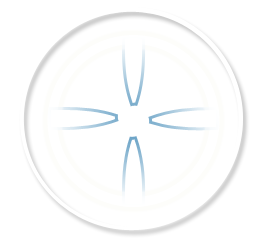
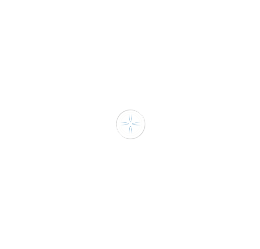
poprawiony raycasting w teleporcie / mniejszy celownik
teraz teleportuje dokładnie tam gdzie wskazuje się myszką, UWAGA tam
gdzie jest myszka != niekoniecznie tam gdzie jest celownik, co widać
zwłaszcza w edytorze unity, nadal jest to dosłowne teleportowanie ale
działa ok, tylko czasem nie widać gdzie się teleportujemy bo broń
zasłania ;)

diff --git a/Project/Assets/Player/Scripts/FPSControlsRigid.cs b/Project/Assets/Player/Scripts/FPSControlsRigid.cs
@@ -326,8 +326,14 @@ public class FPSControlsRigid : BaseCharacter { //NIE WIEM CZY TO JEST SLUSZNY S
 */
 			GameObject cam = transform.FindChild ("PlayerCam").gameObject;
 			Ray ray = cam.camera.ScreenPointToRay(Input.mousePosition);
-			transform.position = ray.origin + ray.direction * 75;
-			print("ray origin" + ray.origin + " direction" + ray.direction);
+			//Vector3 targetVelocity = transform.TransformDirection(ray.direction.x * 190, ray.direction.y * 190, ray.direction.z * 190);
+			//rigidbody.AddForce(targetVelocity, ForceMode.VelocityChange); 
+			//transform.position = ray.origin + ray.direction * 75;
+			RaycastHit hitInfo = new RaycastHit();
+			bool traf = Physics.Raycast(ray, out hitInfo);
+			print(hitInfo.point);
+			if(traf) transform.position = hitInfo.point;
+
 			canUseTeleport = false;
 			timerTeleport.Stop();
 			timerTeleport.Start();
